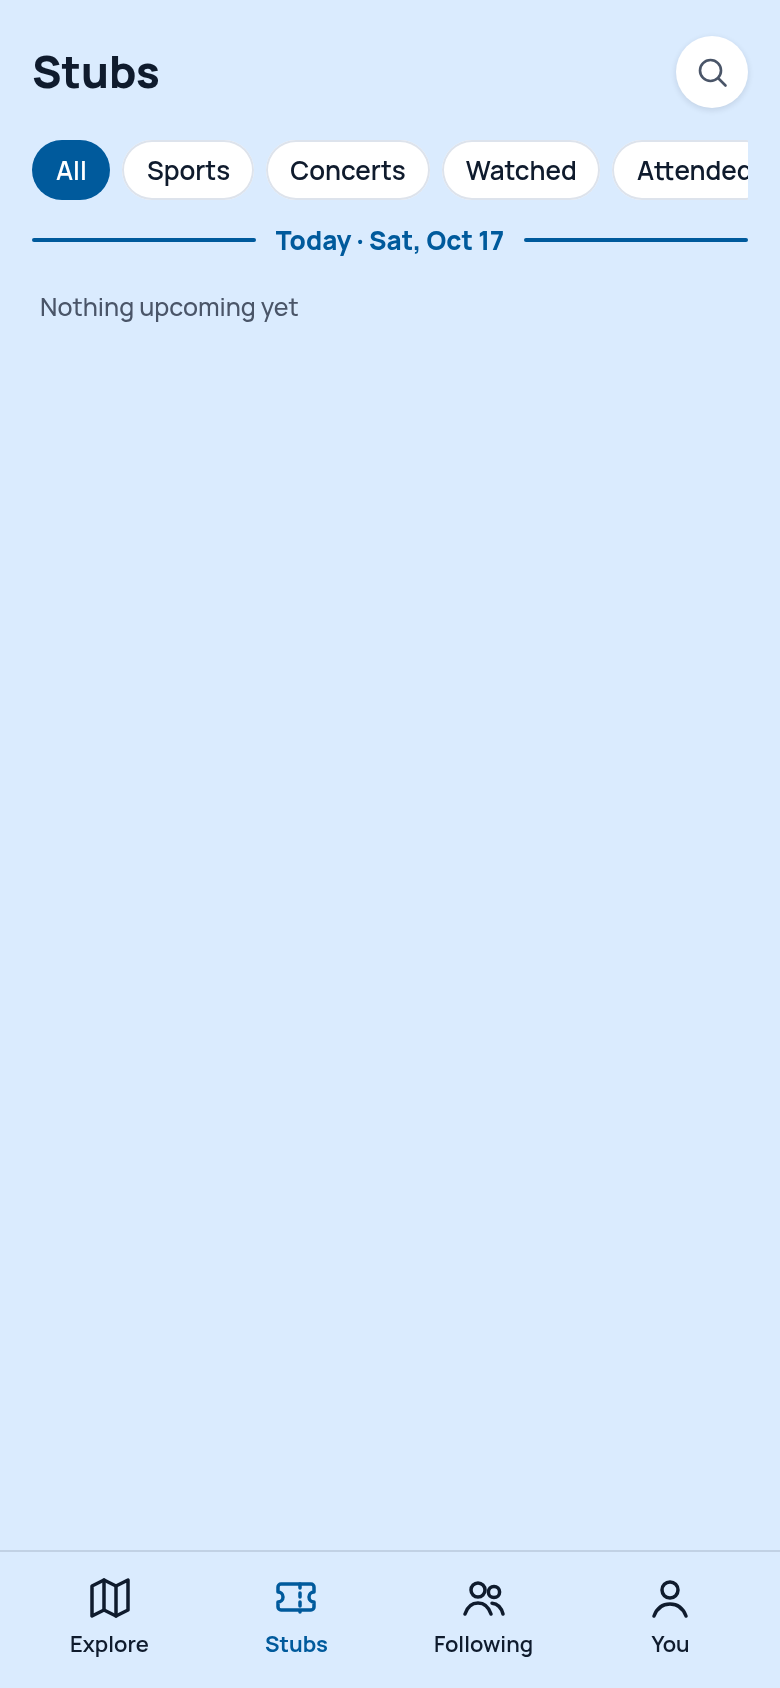
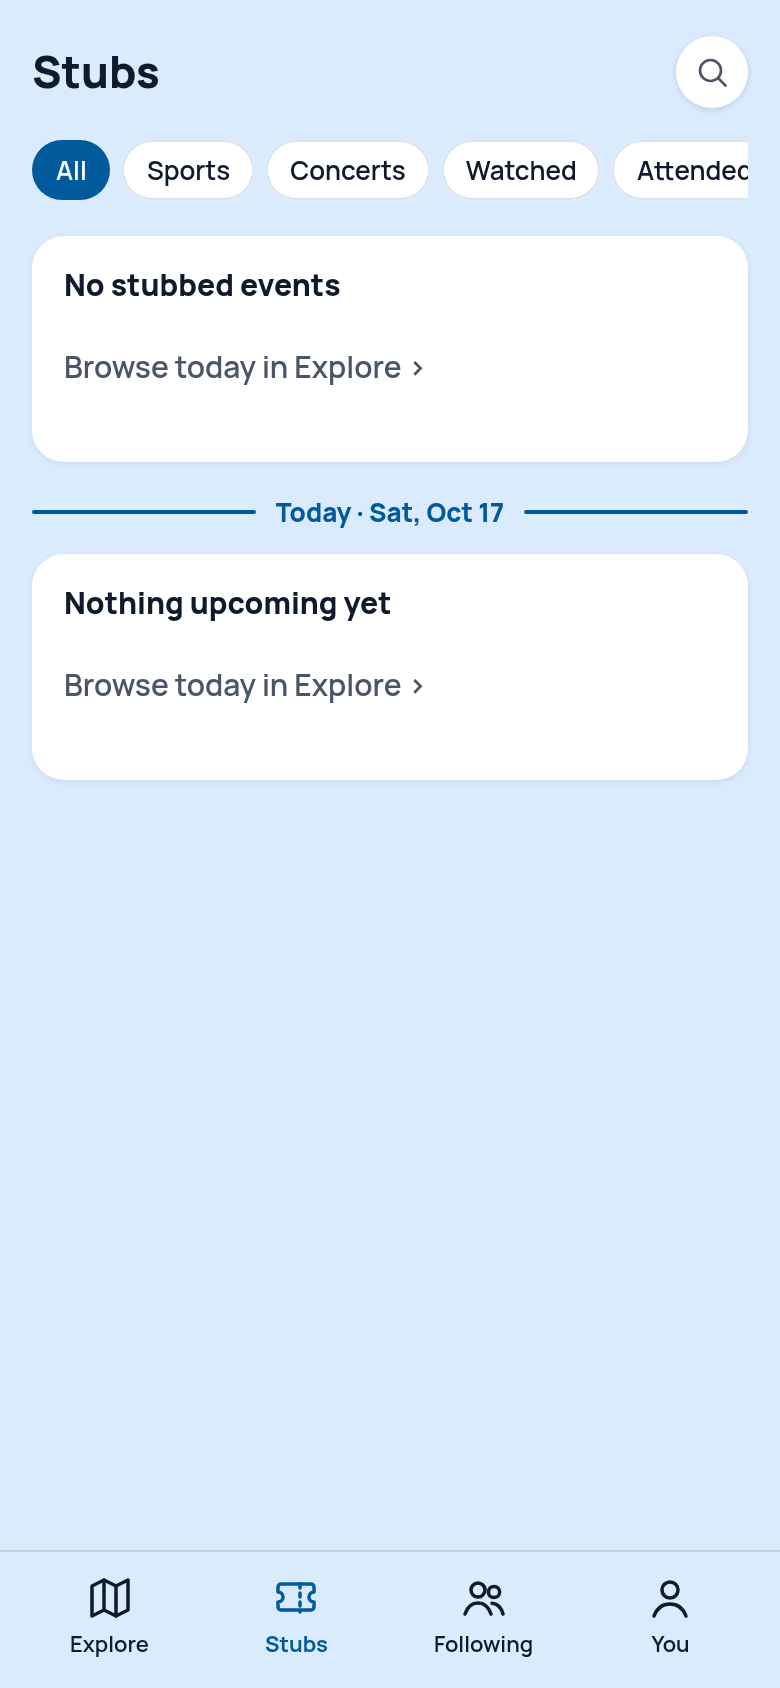
Build 6 correction: Kylie's answers to the audit recorded, the screens after refreshed (phone and her short window), handoff and backlog synced

Changed region(s): [[0.0308, 0.1232, 0.9846, 0.4621]]

diff --git a/MEMORY_HANDOFF.md b/MEMORY_HANDOFF.md
@@ -8,7 +8,7 @@ _Last synced: Oct 17, 2026 (about 15:30 UTC), Claude Code (Fable 5.1), at `main`
 **Build 6 is built, checked and pushed** (items 1–16 of `docs/build-6/build-notes-6.md`, one item per commit, from `75816216` to the head). `npm run build`, `scripts/titles-check.mjs` and `scripts/event-types-check.mjs` pass; every changed list was measured at 390 px with Playwright; every changed screen was smoke-tested for runtime errors. In short:
 - Friction is a violet ghost ring on list rows (after the crowd figure) and one-tint pill with a ring on the event page's Crowd and Up against cards; Stubs rows and Following cards carry no friction mark. The occasion tag shows only on the day's top event(s), right-justified on the venue line. Local Competition bars are gold with a quiet-day line. No "~" except the event page's full number and the map key. The chip card's by-line shows only beside its pill.
 - Stubs and Following's Friends segment are timelines (`src/components/Timeline.tsx`): the tab header stays at the top, the today line opens first (board M2-01 panel C: a thin blue rule with the date centred on it, month bands on both sides), the past is above by scrolling up (Kylie, Oct 17, correcting the first build). Following keeps Faves | Friends; only the edit-favorites picker is in Settings.
-- **The mockup pack is audited (Oct 17, later):** `docs/build-6/mockups/` (30 boards plus MANIFEST) and the Oct 17 notes (Q15, Q16) are on disk; `docs/build-6/audit-vs-mockups.md` records every item against its boards, the fixes (`9ed4b4ff` item 1: ring geometry per M5-04, Unopposed a full disc, per-level spoken sentences, the key's helper tip per M5-08; `caafc5ea` items 6 and 7: the today line, bands both sides, empty-past above, no Earlier, the button's shrink) and the screens after (`docs/build-6/screens-after/`). Items with no board: chip card, Friends timeline, Settings panel, the decided badge, the event header without the pill, the share card.
+- **The mockup pack is audited (Oct 17, later):** `docs/build-6/mockups/` (30 boards plus MANIFEST) and the Oct 17 notes (Q15, Q16) are on disk; `docs/build-6/audit-vs-mockups.md` records every item against its boards, the fixes (`9ed4b4ff` item 1: ring geometry per M5-04, Unopposed a full disc, per-level spoken sentences, the key's helper tip per M5-08; `caafc5ea` items 6 and 7: the today line, bands both sides, empty-past above, no Earlier, the button's shrink) and the screens after (`docs/build-6/screens-after/`). Items with no board: chip card, Friends timeline, Settings panel, the decided badge, the event header without the pill, the share card. **Her answers, built the same day** (`b7e21048`, `cb4969bd`, `e58add49`): Faves takes month bands with the day on each row; the empty future is M2-02's card; a list with no past opens at its top; the map key fits under the header; the timelines no longer overflow the page's width or squash the chips. Open for Mosaic: the helper tip broken into sections.
 - Settings is a side panel behind the You avatar (`SettingsPanel` in `src/screens/SettingsScreen.tsx`, `?panel=<section>`); the old sub-page and People addresses redirect into it.
 - Team badges are set-aware (`teamBadge(team, shown)`, `badgesCollide`, `FavoriteBadge`): sport icon top-left, college sport letters on a clash, pros plain. 53 team codes changed (Kylie's six plus 47 Medium rows). The duplicate check keys games by team id.
 - Doubleheaders read "Doubleheader Game 1" / "Doubleheader, Game 1" (chip DH1); a `rank` field shows in the event page title only when a source fills it (none does). Run labels: nothing. "The night" story heading is "The evening". Ticket links are off (code and ids kept). B5-02, B5-04, B5-05, B5-07 fixed. Stale docs corrected; `src/lib/chips.ts` and `frictionClass` removed.
@@ -26,7 +26,7 @@ _Last synced: Oct 17, 2026 (about 15:30 UTC), Claude Code (Fable 5.1), at `main`
 
 ## Kylie's manual steps
 1. 🚩 **SeatGeek:** she applied for the free client id (Oct 17) and is waiting. **Remind her at the start of every session until it lands**; then it goes in the `SEATGEEK_CLIENT_ID` Actions secret.
-2. **Build 6, on her phone:** the Stubs timeline (the today line, the empty ends), Following's Friends line signed in (headless cannot sign in), the Settings panel, the map key's helper tip, the ring on rows and the event page. Her three open questions are at the end of `docs/build-6/audit-vs-mockups.md` (Faves day bands, the empty-future note vs a card, the helper tip's length).
+2. **Build 6, on her phone:** the Stubs timeline (the today line, the empty ends), Following's Friends line signed in (headless cannot sign in), the Settings panel, the map key's helper tip, the ring on rows and the event page. Her answers to the audit's questions are at the end of `docs/build-6/audit-vs-mockups.md`; nothing is waiting on her there.
 3. **Small-rooms research, next installment** (Chicago onward; the prompt wording is in the Oct 17 handoff before this one and in BACKLOG, "Past dates"), saved as `small-rooms-big-cities-answer-3.md`.
 4. **Seller terms:** hand an agent `docs/research/topics/seller-terms-automated-access-prompt.md` and save the answer beside it.
 5. **Migration 0027** (private, hers to read and run); her own log items in `private/kylie-log/open-questions.md`.

diff --git a/docs/build-6/audit-vs-mockups.md b/docs/build-6/audit-vs-mockups.md
@@ -37,7 +37,9 @@ Run on Oct 17, 2026 (Claude Code, Fable 5.1), after Kylie attached the Oct 17 no
 | `map-key.png` | M5-08 draft A, pill-r1 fragment | Matches draft A's shape (sentence, ring plus word ×4, the "A row shows the ring" line); the pills are the one violet tint |
 | `map-chip-card.png` | none | No mockup |
 | `stubs-open.png`, `stubs-scrolled-up.png`, `stubs-past-only.png`, `stubs-future-only*.png`, `stubs-nothing*.png` | M2-01 panel C, M2-02 | Matches panel C: header, chips, the thin blue "Today · Sat, Oct 17" rule, OCTOBER 2026 on both sides, "+ Stub it" extended at open and "+" once scrolled; past above by scrolling up. Matches M2-02's empty past (card, no button) and pill (shared `.today-pill`). Differs from M2-02 on the empty future: a one-line note, per the notes |
-| `following-faves.png` | none | No mockup (the Faves schedule keeps the Explore-style day bands it had before build 6; see Questions) |
+| `following-faves.png` | none | No mockup; month bands with the day on each row (Kylie, Oct 17) |
+| `map-key-short-window.png`, `map-key-short-phone.png` | M5-08 | The key under a tall header on a short window: 8 px under the header, 8 px over its button, scrolling inside |
+| `stubs-open-short-window.png`, `stubs-future-only-short-window.png`, `stubs-nothing-short-window.png`, `following-faves-short-window.png` | M2-01 C, M2-02 | Kylie's 508 × 770 window: chips intact, no sideways scroll, the empty cards in view |
 | `following-friends-signed-out.png` | none | No mockup; signed out in headless |
 | `settings-panel.png` | none | No mockup |
 | `faves-edit.png` | badge-r1 (evidence) | No mockup for the decided badge |
@@ -45,8 +47,9 @@ Run on Oct 17, 2026 (Claude Code, Fable 5.1), after Kylie attached the Oct 17 no
 ## Checks
 `npm run build` (type-check plus production build), `node scripts/titles-check.mjs` ("all passed"), `node scripts/event-types-check.mjs` (37 types; 138 rows read "Event", known, B5-10) after each code commit. There is no lint script and no test suite. Row measurements at 390 px with Playwright: ring centre vs figure centre, ring gap after the number, tag right edge vs crowd edge (all within 1 px on the Explore List, date page, Home and map sheet); Stubs rows 70 px; the today line 26 px with its label centred.
 
-## Questions for Kylie
-1. The Faves segment's schedule keeps day bands ("TODAY · SAT, OCT 17", "WED, OCT 21"); "monthly only" was said about the Stubs and Friends timelines. Should the Faves schedule take month bands too?
-2. The empty-future side under the today line is a one-line note (the notes' words); board M2-02 draws a card with "Browse today in Explore ›". Say if the card is wanted.
-3. The map key's helper tip uses M5-08 draft A (Mosaic's lean, three lines). Draft C is shorter if the key feels long.
-4. A brand-new account (no stubs, no plans) opens Stubs on the today line with "Nothing upcoming yet" under it; the "No stubbed events / Browse today in Explore ›" card is above the line, out of view until a scroll up, and the floating button is hidden (Q3). That follows the notes and M2-02's "scrolled up" panel. Should the list open at its top instead when the past is empty, so the card, the line and the note all show at once?
+## Questions for Kylie, and her answers (Oct 17, later)
+1. ~~Should the Faves schedule take month bands too?~~ **Yes** (built, `b7e21048`): the Faves schedule groups by month and each row says its day first ("Today · Sat, Oct 17 · Rose Bowl · 4:30 pm"; `following-faves.png`).
+2. ~~Empty future: the notes' one-line note or M2-02's card?~~ **M2-02's card** (built, `cb4969bd`): "Nothing upcoming yet" with "Browse today in Explore ›" under the line (`stubs-nothing.png`, `stubs-past-only.png`).
+3. ~~The helper tip's length~~ **Fine for now**; she has thoughts (a lot of information; break it into sections) and it hid under the map header on her window. The hiding is fixed (`e58add49`: the key measures the room between the header and its button and scrolls inside it; `map-key-short-window.png`). The sectioning is for Mosaic (BACKLOG, "Build 6 follow-ups").
+4. ~~A brand-new account opens with the empty-past card out of view~~ **"The card should not be out of view"** (built, `cb4969bd`): a list with nothing behind the line opens at its top, so the card, the line and the empty-future card all show (`stubs-nothing.png`, `stubs-future-only.png`).
+5. **Found by Kylie on her window:** the Stubs and Friends lists ran wider than the page (a sideways scroll, the content shifted), and the list took height from the filter chips, which squashed to a sliver under the today band. Both fixed in `cb4969bd`: the scroller bleeds to the page's edges and hides sideways overflow (the month bands still run edge to edge), and the chips and tag picker never shrink. Measured at 390 × 844 and at her 508 × 770 window: sideways overflow 0, the chip row 44 px, the bands at the page's edges (`stubs-open-short-window.png`).

diff --git a/BACKLOG.md b/BACKLOG.md
@@ -76,7 +76,7 @@ Items 1–16 are built and on `main`; the report is `docs/build-6/build-6-report
 - ~~Open question: how clashing same-sport pro pairs are told apart~~ **Closed (Kylie, Oct 17): option A.** A pro badge whose code and sport another pro badge in the set shares carries its league as a caption under the tile (`leagueMark`, `FavoriteBadge`). Team colors stay a possible branding project (no color data exists; about 200 teams would need a hand-sourced hex; ESPN's values are unlicensed for reuse so far).
 - ~~To confirm: letters only on a clash~~ **Confirmed (Kylie, Oct 17):** college sport letters only on a clash, same code and same sport. The wider college badge ("UCLA MBB", about 74–79 px) lets the tile grow; Mosaic's width call is still welcome.
 - **Leans and defaults she may change (one place each):** the Why card and Favorite page rows (Q14); ~~the Faves strip and day rows living in the Settings panel (Q12)~~ reverted Oct 17 (Kylie: the Faves segment stays on the tab; only the edit picker is in Settings); the Time TBA band alone (Q13); "The evening" (Q11); the Stubs empty copy rendered as "No stubbed events" (the notes write it lowercase); ~~the today band's look~~ aligned Oct 17 with board M2-01 panel C (a thin blue rule; `docs/build-6/audit-vs-mockups.md`); the empty-future side as a one-line note (board M2-02 draws a card with "Browse today in Explore ›"); the stub's level shown on every row only when signed in; the Settings dropdown order; the Following row's last line (the people on it, else a star and the Fave); Following's 60-day window (the past, and the Faves horizon; followed people's plans ahead are not capped); the map key's helper tip in board M5-08's draft A shape (three lines; draft C is shorter); the ring's stroke (1.3 at 12 px, a touch under M5-04's 1.5 per her M5-06 note).
-- **Open after the mockup audit (Oct 17):** whether the Faves schedule on Following should take month bands like the two timelines (it keeps Explore-style day bands); boards still wanted from Mosaic for the chip card, the Friends timeline, the Settings panel, the decided badge (and the lettered tile's width), the event header without the pill, and the share card.
+- **After the mockup audit (Oct 17):** ~~Faves month bands~~ built (Kylie: yes). **For Mosaic:** the map key's helper tip (Kylie, Oct 17: "lots of information, might want to break down in sections"; it keeps M5-08 draft A's words until a board says otherwise); boards still wanted for the chip card, the Friends timeline, the Settings panel, the decided badge (and the lettered tile's width), the event header without the pill, and the share card.
 - ~~Duplicate program records~~ **Merged Oct 17 (Kylie: "go ahead"):** `rice` into `rice-football`, `washington-huskies` into `uw-football`; their old names are aliases; the two seeded games point at the programs. The expected-draw index keys visitors by listing slug ("rice"), which the merge does not touch.
 - **The 22 Low team codes** stay held until each is checked on a league or ESPN page (PWHL Detroit and Las Vegas, KC Mavericks, Indy Fuel, Winterhawks, Generals, 67s, Olympiques, Missions, the two Diablos, PVAMU, IU Indy, Columbia, Penn State, the Varsity Blues, York).
 - **Run labels** wait for five data fields (position in the run, a live total with a certainty signal, a residency flag, an announced-last-date flag, series length); the rules are in the notes, item 11. **Rank** has a field and a display but no source (official-rankings sourcing is pending research). Open for Kylie: whether "Tonight" (a search word) and "Famous nights" (a comment) count under the no-"night" rule.

diff --git a/docs/product/product-decisions.md b/docs/product/product-decisions.md
@@ -267,3 +267,4 @@ Each entry: the decision, why, and what was rejected. Provenance per line: "Kyli
 - **The two duplicate program records are merged** (Kylie, Oct 17: "go ahead"). `rice` folded into `rice-football` and `washington-huskies` into `uw-football`; the old names ride as aliases, and the two seeded games that named the visitor records point at the programs. Item 15 of the build 6 notes is dropped (Kylie: "ignore"). Parked and unrendered screens are now listed in BACKLOG ("Parked and unrendered screens").
 - **Timelines open the Explore List's way, and Following keeps its sub-tabs** (Kylie, Oct 17, 2026, correcting the first build of items 6 and 7). Stubs and the Friends segment open with the tab's own header at the top and today's band first in the list; the past sits above and is reached only by scrolling up, the future runs down; a Today pill brings you back. Following keeps Faves | Friends: Faves is the schedule with its badge strip and Edit, Friends is the timeline of what followed people answered (plans ahead, the last 60 days behind), with Find people above it. Only the edit-favorites picker lives in Settings ("Edit favorites"); the Faves schedule does not.
 - **Build 6 aligned with the mockup pack** (Kylie, Oct 17, 2026, after attaching `docs/build-6/mockups/` and the Oct 17 notes; record in `docs/build-6/audit-vs-mockups.md`). The today line is board M2-01 panel C: a thin blue rule with "Today · Sat, Oct 17" centred on it, not a band; the month bands are grey on both sides of it, so the line's month shows twice; the empty-past card sits above the line and the empty-future note under it; no "Earlier" label; the floating "+ Stub it" opens extended and shrinks only once the list leaves where it opened. The ring follows board M5-04: 12 px on rows and 16 px on the event page, a 4.5 opening with dots of 3.2 / 2.0 / 0.9, Unopposed a full disc (event page only); its stroke is a touch under the board's 1.5 (her M5-06 note). A row's spoken verdict is one sentence per level (M5-04's table: "take a little of", "split", "take most of this crowd"; "rival events or weather" on an open-air event). The map key's helper tip is M5-08 draft A: "Each event is Unopposed, Squeezed, Swamped or Steamrolled by that day's lineup.", the four marks as ring plus word, "A row shows the ring. The event page shows the ring and the word." (wording still a default). Everything else was already as the notes and the decided boards say (items 2, 3, 4, 5, 8 to 16 unchanged).
+- **Her answers to the audit's questions** (Kylie, Oct 17, later). The Faves schedule on Following takes month bands too, each row saying its day first ("Today · Sat, Oct 17 · Rose Bowl · 4:30 pm"). The empty future under the today line is board M2-02's card ("Nothing upcoming yet", "Browse today in Explore ›"), not a one-line note. A list with nothing behind the line opens at its top, so the empty-past card is never out of view. The map key must not hide under the floating header (it now fits between the header and its button and scrolls inside); the helper tip's wording stays for now, and she wants its information broken into sections later (Mosaic). The Stubs and Friends lists must sit within the page's width with the chips above them intact (fixed).
